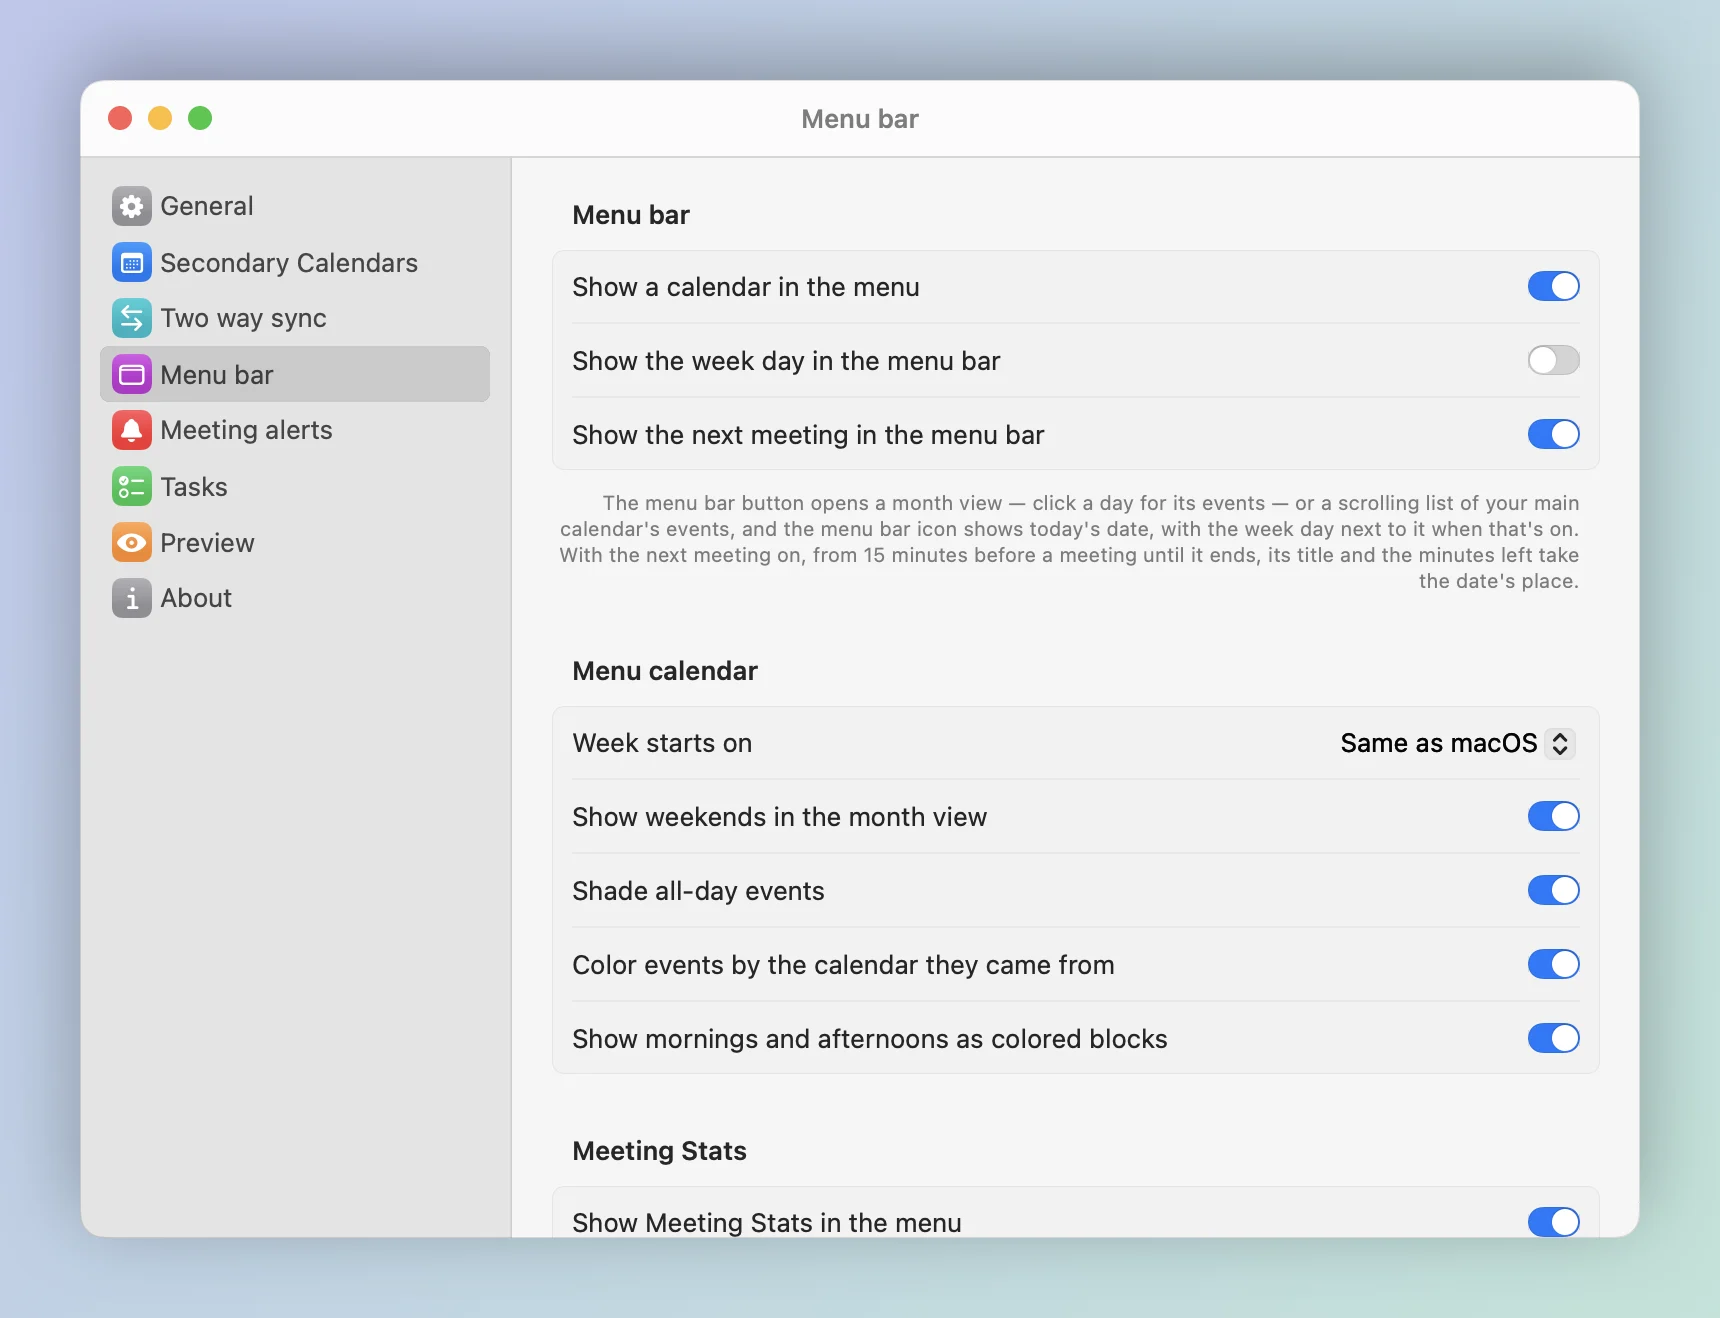
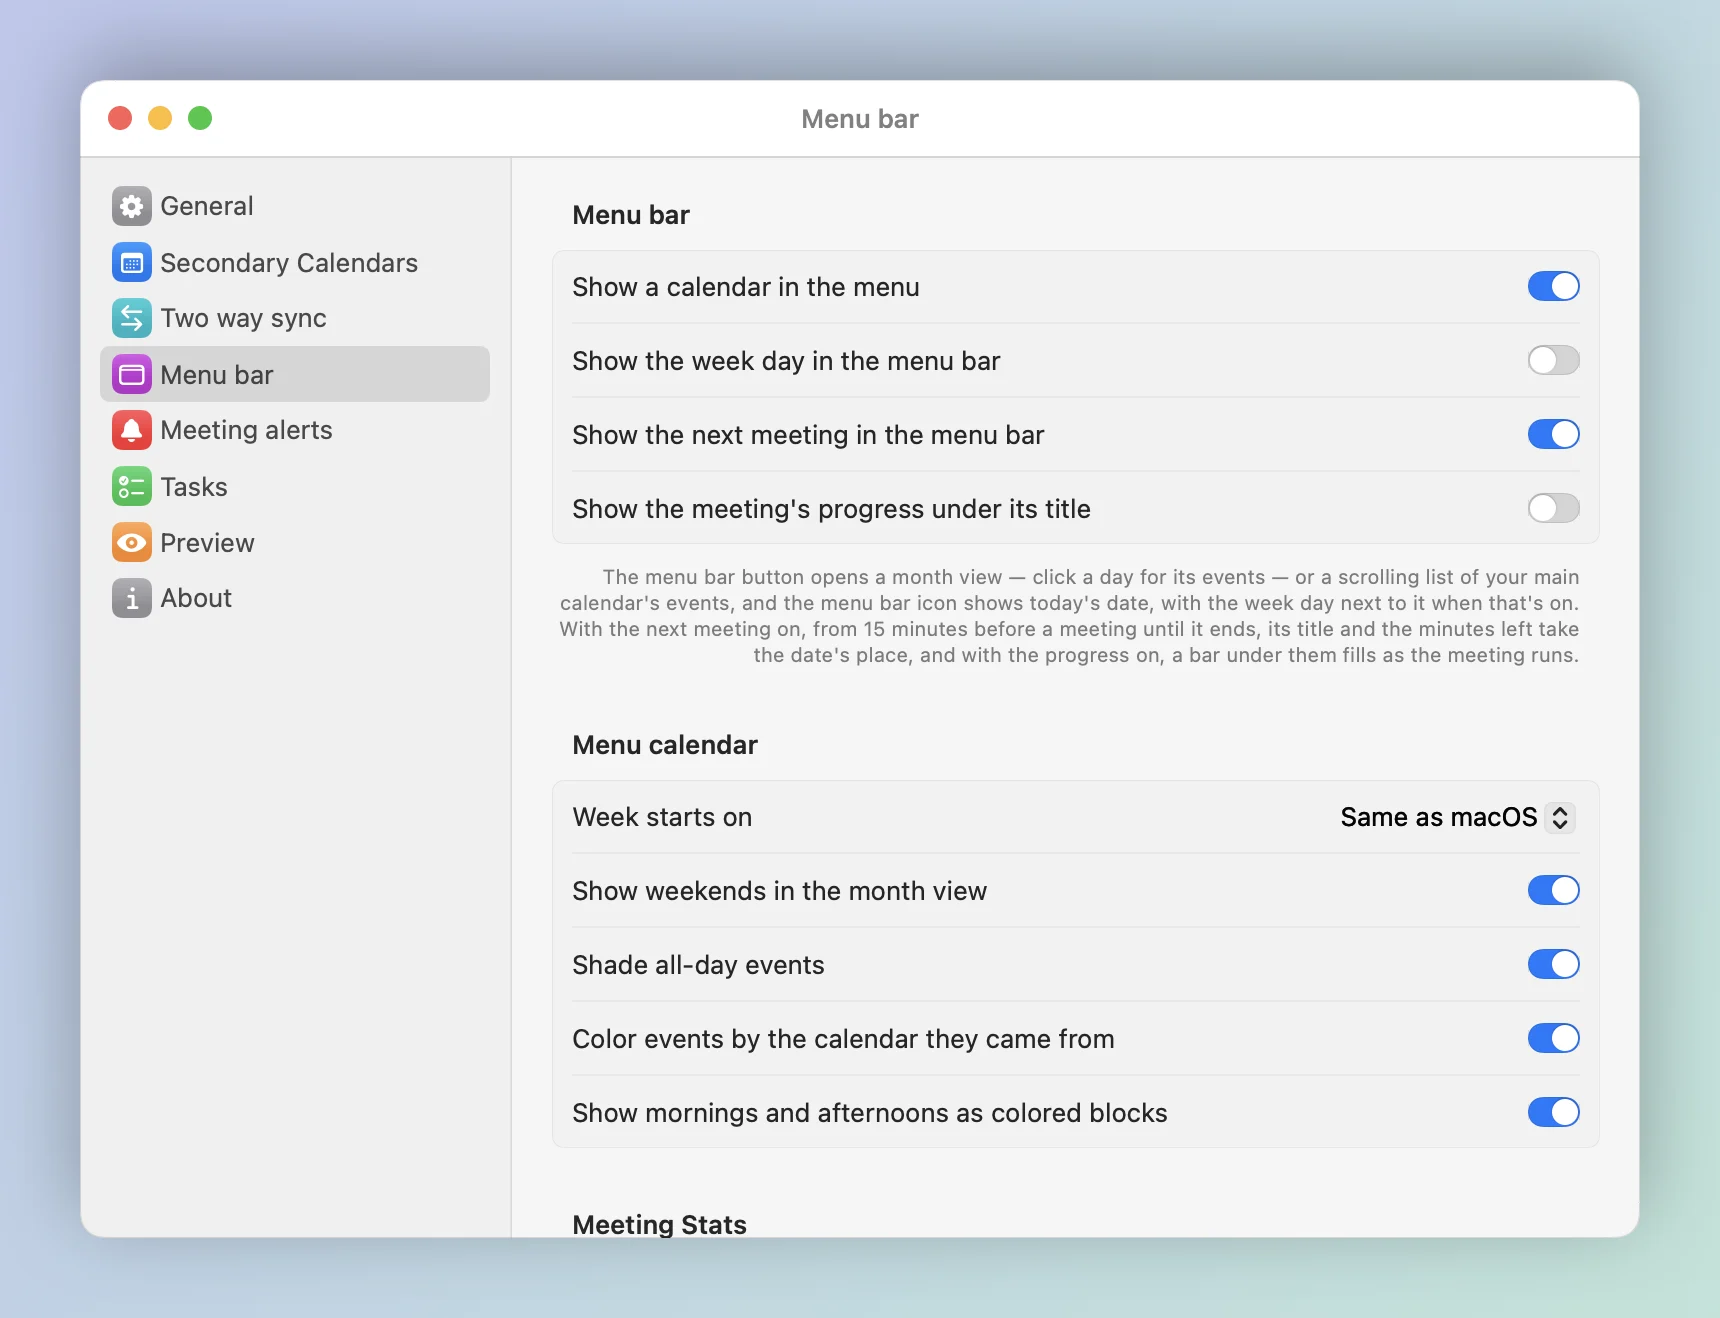
2.0.12: a bar under the meeting in the menu bar fills as the meeting runs
A new Menu bar setting, Show the meeting's progress under its title, off by
default and greyed out until Show the next meeting in the menu bar is on.

diff --git a/Sources/CalendarSync/CalendarSyncApp.swift b/Sources/CalendarSync/CalendarSyncApp.swift
@@ -91,7 +91,8 @@ struct CalendarSyncApp: App {
 
     /// The icon in the menu bar: a calendar glyph, plus today's date when the menu calendar
     /// is on, and with it the week day when that is on too. With "Show the next meeting" on, a
-    /// meeting about to start or under way takes the date's place. A badge on the glyph marks a
+    /// meeting about to start or under way takes the date's place, with a bar under it that fills
+    /// as the meeting runs when that is on too. A badge on the glyph marks a
     /// sync with problems; menu bar labels are drawn in one color, so it's part of the symbol.
     /// `Clock` keeps the date and the minutes right as the minutes pass. Not a TimelineView: in a
     /// menu bar label it re-renders the button in an endless loop and the app hangs at launch.
@@ -113,10 +114,21 @@ struct CalendarSyncApp: App {
             return MenuCalendar.menuBarText(for: meeting, now: clock.now)
         }
 
+        /// How far through the meeting in `meetingText` it is, when its progress bar is on.
+        private var meetingProgress: Double? {
+            guard settings.menuBar.drawsMeetingProgress,
+                  let meeting = controller.menuBarMeeting(now: clock.now) else { return nil }
+            return MenuCalendar.menuBarProgress(for: meeting, now: clock.now)
+        }
+
         var body: some View {
             let hasProblems = !controller.problems.isEmpty || controller.setupProblem != nil
             let text = meetingText
-            if settings.menuCalendarEnabled || text != nil {
+            if let text, let progress = meetingProgress {
+                Image(nsImage: Self.progressImage(symbol: hasProblems ? Self.problemIcon : "calendar",
+                                                  text: text, progress: progress))
+                    .renderingMode(.template)
+            } else if settings.menuCalendarEnabled || text != nil {
                 HStack(spacing: 3) {
                     Image(systemName: hasProblems ? Self.problemIcon : "calendar")
                     if let text {
@@ -132,6 +144,34 @@ struct CalendarSyncApp: App {
 
         /// In place of the plain calendar while the last sync had problems, so it can't be missed.
         private static let problemIcon = "calendar.badge.exclamationmark"
+
+        /// The glyph and the meeting's text with a bar under the text that fills as the meeting
+        /// runs, drawn into one template image: a menu bar label shows only its text and images,
+        /// so a shape in it would never be drawn. Fits the menu bar's height.
+        private static func progressImage(symbol: String, text: String, progress: Double) -> NSImage {
+            let content = HStack(alignment: .center, spacing: 3) {
+                Image(systemName: symbol)
+                Text(text)
+                    .padding(.bottom, 4)
+                    .overlay(alignment: .bottom) {
+                        Capsule().fill(.black.opacity(0.3))
+                            .overlay(alignment: .leading) {
+                                GeometryReader { bar in
+                                    Capsule().frame(width: max(bar.size.width * progress, progress > 0 ? 2 : 0))
+                                }
+                            }
+                            .frame(height: 2)
+                    }
+            }
+            .font(Font(NSFont.menuBarFont(ofSize: 0)))
+            .foregroundStyle(.black)
+            .padding(.vertical, 1)
+            let renderer = ImageRenderer(content: content)
+            renderer.scale = NSScreen.main?.backingScaleFactor ?? 2
+            let image = renderer.nsImage ?? NSImage()
+            image.isTemplate = true
+            return image
+        }
     }
 
     var body: some Scene {

diff --git a/Sources/CalendarSync/SettingsView.swift b/Sources/CalendarSync/SettingsView.swift
@@ -180,10 +180,16 @@ private struct MenuBarTab: View {
                     Toggle("Show the week day in the menu bar", isOn: $settings.menuBar.showsWeekday)
                 }
                 Toggle("Show the next meeting in the menu bar", isOn: $settings.menuBar.showsNextMeeting)
+                // Off and greyed out until the meeting is shown: the bar sits under its title.
+                Toggle("Show the meeting's progress under its title", isOn: Binding(
+                    get: { settings.menuBar.drawsMeetingProgress },
+                    set: { settings.menuBar.showsMeetingProgress = $0 }
+                ))
+                .disabled(!settings.menuBar.showsNextMeeting)
             } header: {
                 Text("Menu bar")
             } footer: {
-                Text("The menu bar button opens a month view — click a day for its events — or a scrolling list of your main calendar's events, and the menu bar icon shows today's date, with the week day next to it when that's on. With the next meeting on, from 15 minutes before a meeting until it ends, its title and the minutes left take the date's place.")
+                Text("The menu bar button opens a month view — click a day for its events — or a scrolling list of your main calendar's events, and the menu bar icon shows today's date, with the week day next to it when that's on. With the next meeting on, from 15 minutes before a meeting until it ends, its title and the minutes left take the date's place, and with the progress on, a bar under them fills as the meeting runs.")
                     .font(.caption).foregroundStyle(.secondary)
             }
 

diff --git a/Tests/CalendarSyncCoreTests/MenuCalendarTests.swift b/Tests/CalendarSyncCoreTests/MenuCalendarTests.swift
@@ -170,6 +170,24 @@ final class MenuCalendarTests: XCTestCase {
         XCTAssertEqual(MenuCalendar.shortDuration(minutes: 60), "1h")
     }
 
+    func testMenuBarProgress() {
+        let start = date(2026, 11, 5, hour: 10)
+        func at(_ minutes: Double) -> Date { start.addingTimeInterval(minutes * 60) }
+        let meeting = SourceEvent(key: "m", title: "Design review", start: start, end: at(40))
+        XCTAssertEqual(MenuCalendar.menuBarProgress(for: meeting, now: at(-5)), 0, "not started yet")
+        XCTAssertEqual(MenuCalendar.menuBarProgress(for: meeting, now: at(10)), 0.25)
+        XCTAssertEqual(MenuCalendar.menuBarProgress(for: meeting, now: at(30)), 0.75)
+        XCTAssertNil(MenuCalendar.menuBarProgress(for: meeting, now: at(-20)), "not in the menu bar yet")
+        XCTAssertNil(MenuCalendar.menuBarProgress(for: meeting, now: at(40)), "over")
+    }
+
+    func testMeetingProgressNeedsTheMeetingTitle() throws {
+        XCTAssertFalse(MenuBarOptions(showsNextMeeting: false, showsMeetingProgress: true).drawsMeetingProgress)
+        XCTAssertTrue(MenuBarOptions(showsNextMeeting: true, showsMeetingProgress: true).drawsMeetingProgress)
+        let old = try JSONDecoder().decode(MenuBarOptions.self, from: Data(#"{"showsWeekday":true,"showsNextMeeting":true}"#.utf8))
+        XCTAssertFalse(old.showsMeetingProgress, "off for settings saved before it existed")
+    }
+
     func testMenuBarPrefersTheMeetingAboutToStart() {
         let now = date(2026, 11, 5, hour: 11)
         let focus = SourceEvent(key: "focus", title: "Focus", start: date(2026, 11, 5, hour: 9), end: date(2026, 11, 5, hour: 13))

diff --git a/Sources/CalendarSync/DemoMode.swift b/Sources/CalendarSync/DemoMode.swift
@@ -369,7 +369,7 @@ private struct MenuBarItemPreview: View {
     }
 }
 
-/// The menu bar item with the date, then with the next meeting about to start.
+/// The menu bar item with the date, then with the next meeting, then with its progress bar too.
 private struct MenuBarStrips: View {
     @ObservedObject var settings: SettingsStore
     @ObservedObject var controller: SyncController
@@ -378,17 +378,20 @@ private struct MenuBarStrips: View {
         VStack(spacing: 12) {
             strip(showsNextMeeting: false)
             strip(showsNextMeeting: true)
+            strip(showsNextMeeting: true, showsMeetingProgress: true)
         }
         .padding(20)
         .frame(width: 520)
         .background(Wallpaper())
     }
 
-    private func strip(showsNextMeeting: Bool) -> some View {
-        let shown = SettingsStore(defaults: UserDefaults(suiteName: "org.neteinstein.calendarsync.demo.strip\(showsNextMeeting)")!)
+    private func strip(showsNextMeeting: Bool, showsMeetingProgress: Bool = false) -> some View {
+        let shown = SettingsStore(defaults: UserDefaults(
+            suiteName: "org.neteinstein.calendarsync.demo.strip\(showsNextMeeting)\(showsMeetingProgress)")!)
         shown.menuCalendarEnabled = true
         shown.targetCalendarID = settings.targetCalendarID
         shown.menuBar.showsNextMeeting = showsNextMeeting
+        shown.menuBar.showsMeetingProgress = showsMeetingProgress
         return HStack(spacing: 14) {
             Spacer()
             MenuBarItemPreview(settings: shown, controller: controller)

diff --git a/Sources/CalendarSyncCore/Models.swift b/Sources/CalendarSyncCore/Models.swift
@@ -144,17 +144,24 @@ public struct MenuBarOptions: Codable, Hashable, Sendable {
     public var showsWeekday: Bool
     /// Within 15 minutes of a meeting, and while it runs, its title and the minutes left.
     public var showsNextMeeting: Bool
+    /// A bar under the meeting's title that fills as the meeting runs. Only with `showsNextMeeting`.
+    public var showsMeetingProgress: Bool
 
-    public init(showsWeekday: Bool = false, showsNextMeeting: Bool = false) {
+    public init(showsWeekday: Bool = false, showsNextMeeting: Bool = false, showsMeetingProgress: Bool = false) {
         self.showsWeekday = showsWeekday
         self.showsNextMeeting = showsNextMeeting
+        self.showsMeetingProgress = showsMeetingProgress
     }
+
+    /// Whether the menu bar draws the progress bar: it hangs off the meeting's title.
+    public var drawsMeetingProgress: Bool { showsNextMeeting && showsMeetingProgress }
 
     // Settings saved by older versions don't have every key yet.
     public init(from decoder: Decoder) throws {
         let c = try decoder.container(keyedBy: CodingKeys.self)
         showsWeekday = try c.decodeIfPresent(Bool.self, forKey: .showsWeekday) ?? false
         showsNextMeeting = try c.decodeIfPresent(Bool.self, forKey: .showsNextMeeting) ?? false
+        showsMeetingProgress = try c.decodeIfPresent(Bool.self, forKey: .showsMeetingProgress) ?? false
     }
 }
 

diff --git a/Sources/CalendarSyncCore/MenuCalendar.swift b/Sources/CalendarSyncCore/MenuCalendar.swift
@@ -163,4 +163,13 @@ public enum MenuCalendar {
         }
         return "\(title) · \(shortDuration(minutes: minutes(from: now, to: event.end))) left"
     }
+
+    /// How far through `event` `now` is, from 0 to 1, for the bar under the menu bar text: 0
+    /// before it starts, nil whenever `menuBarText` shows nothing.
+    public static func menuBarProgress(for event: SourceEvent, now: Date) -> Double? {
+        guard menuBarText(for: event, now: now) != nil else { return nil }
+        let length = event.end.timeIntervalSince(event.start)
+        guard length > 0 else { return 1 }
+        return min(max(now.timeIntervalSince(event.start) / length, 0), 1)
+    }
 }

diff --git a/README.md b/README.md
@@ -8,7 +8,7 @@
 
 A small Mac menu bar app that copies the meetings from your other calendars into the one your colleagues book you through, so nobody books you over a meeting they can't see. It also keeps your day in view: the next meeting a click away, a nudge when it starts, and the tasks to prepare it.
 
-[![Version 2.0.9](https://img.shields.io/badge/version-2.0.9-2563EB)](Support/Info.plist)
+[![Version 2.0.12](https://img.shields.io/badge/version-2.0.12-2563EB)](Support/Info.plist)
 [![Build](https://github.com/neteinstein/Calendar-Sync/actions/workflows/build.yml/badge.svg)](https://github.com/neteinstein/Calendar-Sync/actions/workflows/build.yml)
 ![macOS 14+](https://img.shields.io/badge/macOS-14%2B-111?logo=apple&logoColor=white)
 [![Homebrew tap](https://img.shields.io/badge/homebrew-neteinstein%2Ftap-FBB040?logo=homebrew&logoColor=white)](https://github.com/neteinstein/homebrew-tap)
@@ -92,10 +92,10 @@ The screen blurs and a card counts down to the start, with the meeting's open ta
 
 <picture>
   <source media="(prefers-color-scheme: dark)" srcset="docs/screenshots/menu-bar-dark.webp">
-  <img src="docs/screenshots/menu-bar-light.webp" width="520" alt="The menu bar item showing the date, and showing Design review · 13m">
+  <img src="docs/screenshots/menu-bar-light.webp" width="520" alt="The menu bar item showing the date, showing Design review · 13m, and the same with a progress bar under it">
 </picture>
 
-Today's date, or, if you like, the next meeting and the minutes left when it's 15 minutes away.
+Today's date, or, if you like, the next meeting and the minutes left when it's 15 minutes away, with a bar under it that fills as the meeting runs.
 
 ### Settings
 

diff --git a/docs/how-it-works.md b/docs/how-it-works.md
@@ -45,7 +45,7 @@ The app recognises its Busy events by the code, and matches them to your main ca
 - **Tasks view.** Your tasks, by when they're due: overdue, today, tomorrow, later and no date, with the ones done this week folded away. Month and List show each day's tasks too. See [Tasks](#tasks).
 - **Colors.** The lists tint each event with the **color of the calendar it came from**, shade **all-day events**, and group each day's **morning** and **afternoon** into colored blocks. Each of these can be turned off.
 - **Status.** A pill says when the last sync ran. Anything that went wrong shows as a card with its fix, like **Open Outlook** for a calendar that signed you out; click the pill's count to see it in Settings.
-- **Next meeting in the menu bar.** Turn on **Show the next meeting in the menu bar** and, from 15 minutes before a meeting until it ends, the icon shows its name and the minutes left, like `Design review · 12m`.
+- **Next meeting in the menu bar.** Turn on **Show the next meeting in the menu bar** and, from 15 minutes before a meeting until it ends, the icon shows its name and the minutes left, like `Design review · 12m`. With that on, **Show the meeting's progress under its title** adds a bar under the name that fills as the meeting runs; it stays off and greyed out while the next meeting isn't shown.
 
 ## The meeting alert
 
